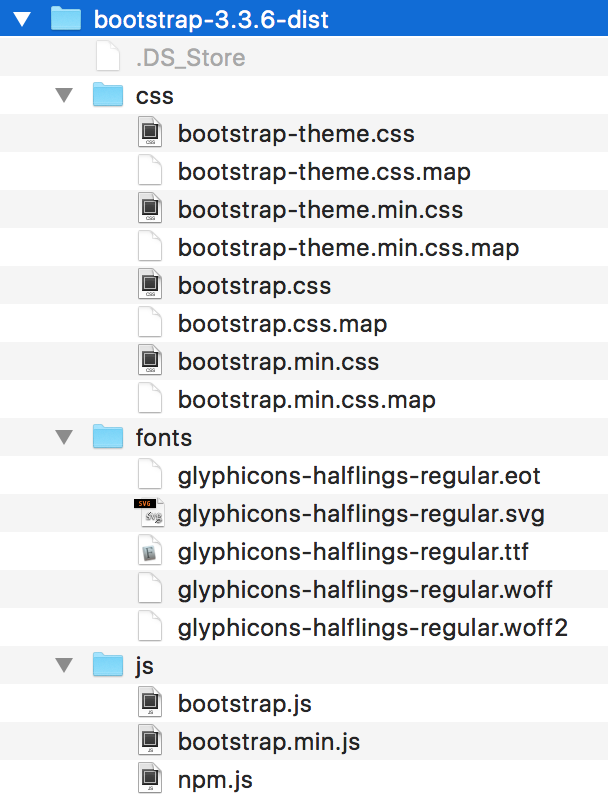
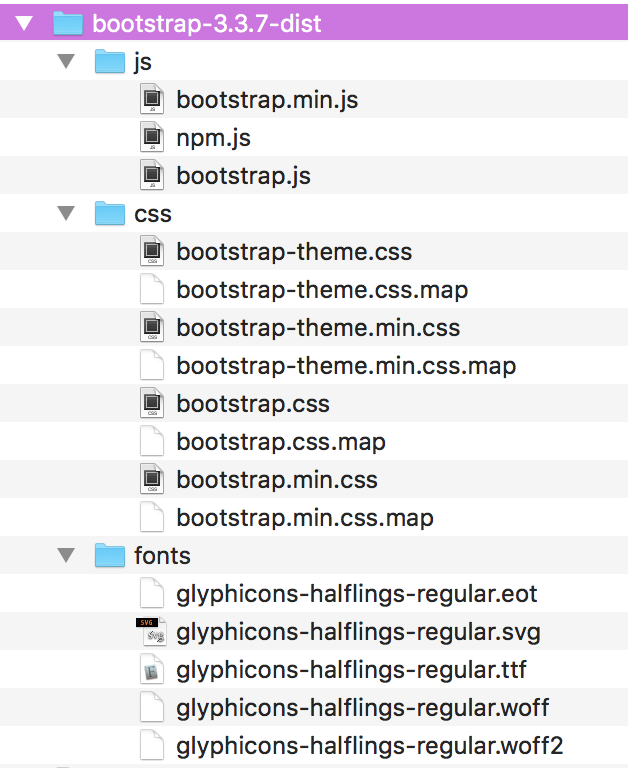
update for 2017-06-10 class

diff --git a/assets/styles/production/styles.min.css b/assets/styles/production/styles.min.css
@@ -1,2 +1,2 @@
-#gdi .left_align,.mono_font{text-align:left}@font-face{font-family:Gotham;font-style:normal;font-weight:400;src:local("Gotham"),url(../../fonts/Gotham/Gotham-Medium.otf) format("opentype")}@font-face{font-family:Gotham-Book;font-style:normal;font-weight:400;src:local("Gotham-Book"),url(../../fonts/Gotham/Gotham-Book.otf) format("opentype")}@font-face{font-family:Gotham-Italic;font-style:italic;font-weight:400;src:local("Gotham-Italic"),url(../../fonts/Gotham/Gotham-MediumItalic.otf) format("opentype")}@font-face{font-family:Gotham-Bold;font-weight:700;src:local("Gotham-Bold"),url(../../fonts/Gotham/Gotham-Bold.otf) format("opentype")}.slides,body{color:#fff;font-family:Gotham-Bold,Helvetica,Arial,sans-serif}body{background:#1f4256}#gdi .uppercase{text-transform:uppercase}#gdi .top_margin{margin:1.5em 0 0}#gdi .small_top_margin{margin:.5em 0 0}#gdi .monaco_font{font-family:Monaco,sans-serif!important;text-align:left}#gdi ol,#gdi p,#gdi ul{font-size:28px;line-height:1.4;margin-top:20px;margin-bottom:20px}#gdi ul{text-align:center;margin-top:0;margin-left:0;padding-left:0;list-style:none}#gdi .big_p{font-size:40px;line-height:1.2}#gdi .huge_p{font-size:50px;line-height:1.2}#logistics,#twitter{color:#31648a;line-height:40px}#gdi li{margin:15px 0;line-height:1.2}#gdi b{font-family:Gotham-Bold}.mono_font{font-family:Monaco,sans-serif!important}#gdi .no_margin{margin:0!important}#gdi .width_50{width:50%}#gdi .indented{margin-left:2em!important}#gdi .block{display:block}#logistics{float:left;margin-left:660px;font-size:18pt}#twitter{float:right;margin-right:100px;font-size:16pt}#twitter img{display:inline-block;height:24px;margin-right:.5em;margin-bottom:-.25em}.reveal footer{position:fixed;bottom:0;left:0;z-index:10;height:40px;width:100%;padding:12px;background:url(../../images/pink-logo.png) no-repeat #eee;background-size:auto 60%;font-size:35%;text-align:right;border-top:2px solid #444;background-position-y:center;background-position-x:2%}.reveal footer .copyright{margin:15px 5px 0 100px;font-style:italic}.reveal footer .copyright a img{vertical-align:middle}#gdi .blue{color:#b3e3f1!important}#gdi .gold{color:#ecbe6d!important}#gdi .white{color:#fff!important}#gdi .pink{color:#f05b62!important}#gdi .navy{color:#1f4256!important}#gdi .meta{font-family:Gotham,Impact,sans-serif;font-size:26pt;line-height:27pt}#gdi .big_meta{font-size:28pt;line-height:38pt}#gdi .small_meta{font-size:23pt;line-height:27pt}#gdi .tiny_meta{font-size:16pt}#gdi h1,#gdi h2,#gdi h3,#gdi h4,#gdi h5{margin:15px 0;line-height:1;color:#Fff}#gdi h1{font-size:64pt}#gdi h2{font-size:54pt;margin-bottom:30px}#gdi h3{font-size:44pt}#gdi h4{font-size:34pt}#gdi h5{font-size:30pt}#gdi .spacer{display:block;height:1px;margin:24px 0 0 25px}#gdi .spacer.big_spacer{height:1px;margin:49px 0 0 50px}#gdi .spacer.small_spacer{height:1px;margin:9px 0 0 10px}#gdi .spacer.tiny_spacer{height:1px;margin:4px 0 0 5px}#gdi .divider{display:block;height:1px;width:12%;margin:5px auto 20px;border-bottom:1px dashed rgba(255,255,255,.3)}#gdi pre{background:#282828;font-family:Monaco,monospace;font-size:15px!important;color:#fff;width:100%;padding:0;margin:0;border:none;box-shadow:none}#gdi pre code{text-shadow:none;padding:0;max-height:none;display:block;margin-top:-22px;margin-bottom:-44px}#gdi .no_margin_pre pre{margin:0 auto;margin-top:0!important}#gdi .skinny_pre pre{width:70%!important;margin:1em auto 0}#gdi .kind_of_skinny_pre pre{width:80%!important}#gdi .extra_skinny_pre pre{width:50%!important}#gdi .big_pre_font pre{font-size:24pt!important}#gdi .tiny_font_pre pre{font-size:11pt!important}#gdi a{color:#fff;text-decoration:underline}#gdi table{width:70%;margin:0 auto;border-collapse:separate;border-spacing:0;background-color:#fff;font-size:18pt;color:#1e3e52;text-align:left;border:2px solid #b3e3f1}#gdi table.wide_table{width:85%}#gdi table .header_row td{padding:20px;background-color:#b3e3f1;color:#122632;text-transform:uppercase}.img_wrapper{padding:2em!important;background-color:#fff;border:6px solid #b3e3f1!important;border-radius:10px}#gdi table td{vertical-align:middle;padding:10px;border-bottom:1px solid #b3e3f1}#gdi table.small_font_table td{padding:2px;font-size:14pt}#gdi tr:hover{background-color:rgba(131,166,176,.28)}#gdi .col{float:left;width:50%}#gdi .col.quarter_col{width:47%}#gdi .col.three_quarters_col{width:53%}#gdi .col.with_border{width:45%;margin:1%;padding:1%;line-height:1.85em;border:1px solid #fff}#js_graphic,#server_graphic{height:300px;width:40%;margin:.5em}#gdi .img_blue_border{border:5px solid #b3e3f1;border-radius:10px}#js_graphic{float:left;background:url(../img/js.png) center no-repeat #fff;background-size:70%;border:5px solid #b3e3f1;border-radius:10px}#server_graphic{float:right;background:url(../img/hosting.png) center no-repeat #fff;background-size:contain;border:5px solid #b3e3f1;border-radius:10px}#gallery{width:96%;margin-bottom:1em;padding:2%;border-bottom:2px solid #bbb}#gallery .thumbnail{float:left;overflow:hidden;height:40px;width:40px;margin:.5em;opacity:.6;border:2px solid #bbb;border-radius:2px;transition:.1s .1s}#gallery .thumbnail:hover{cursor:pointer;opacity:1;border-color:#EF5B6A!important}#gallery #selected_thumb{opacity:1;border-color:#4FA2CC}#gallery .thumbnail img{height:100%}#gallery:after{content:'';display:block;clear:both}#large_image img{overflow:hidden;width:60%;margin:0 auto;border:1px solid #eee;box-shadow:0 0 5px #000}.js_fiddle_link{position:absolute;top:-3em;right:-3em}.js_fiddle_link a{display:block;padding-left:25px;background-image:url(../img/js_logo.png);background-repeat:no-repeat;background-size:contain;font-family:Roboto;font-size:14pt;font-weight:400;color:#fff!important;text-decoration:none;text-transform:lowercase}.js_fiddle_link a:hover{color:#F0DB4F!important}.inline_code{padding:2px 8px!important;background-color:#aacadc;font-family:Monaco!important;font-size:78%!important;color:#1f4256}hr{height:6px;width:25%;margin:28px auto 30px;background:0 0;border:0;border-bottom:1px dashed #2b5e79}.highlight_single_line_text{position:absolute;margin-top:-25px}.highlighting_code_slide h4{font-size:28pt!important;line-height:40pt}#ddr,#ddr2{width:60%;margin:0 auto;padding:130px 0;background-color:#fff;font-size:100pt;border:12px solid #aacadc;border-radius:5px}#ddr button,#ddr2 button{width:120px;padding-bottom:20px;background-color:#2a4758;font-size:60pt;color:#fff;border:0;outline:0;transition:all .1s}#result,#result2,.task_quote{width:100%;text-align:center}#ddr button:hover,#ddr2 button:hover{cursor:pointer;background-color:#d9b06f}#ddr button:active,#ddr2 button:active{transform:scale(.95)}#result,#result2{transition:all .2s}#result.changing,#result2.changing{color:#f95a61;transform:scale(1.2)}.task_quote{position:fixed;display:block;top:0;padding:20px!important;background-color:#17303f}#gdi .img_50{max-width:45%;margin:2%}#gdi .img_20{margin:2%;max-width:18%}#gdi .controls{position:fixed;width:55px;height:55px;z-index:30;right:5px;bottom:5px;-webkit-user-select:none}#gdi .controls div{border:6px solid transparent}#gdi .controls div.navigate-left{top:21px;border-right-width:11px;border-right-color:#d9b06f}#gdi .controls div.navigate-right{left:37px;top:21px;border-left-width:11px;border-left-color:#d9b06f}#gdi .controls div.navigate-up{left:21px;border-bottom-width:11px;border-bottom-color:#d9b06f}#gdi .controls div.navigate-down{left:21px;top:37px;border-top-width:11px;border-top-color:#d9b06f}.slide-number{right:25px!important;bottom:75px!important;font-size:24pt!important;color:#fff!important}
+@font-face{font-family:Gotham;font-style:normal;font-weight:400;src:local("Gotham"),url(../../fonts/Gotham/Gotham-Medium.otf) format("opentype")}@font-face{font-family:Gotham-Book;font-style:normal;font-weight:400;src:local("Gotham-Book"),url(../../fonts/Gotham/Gotham-Book.otf) format("opentype")}@font-face{font-family:Gotham-Italic;font-style:italic;font-weight:400;src:local("Gotham-Italic"),url(../../fonts/Gotham/Gotham-MediumItalic.otf) format("opentype")}@font-face{font-family:Gotham-Bold;font-weight:700;src:local("Gotham-Bold"),url(../../fonts/Gotham/Gotham-Bold.otf) format("opentype")}.slides,body{color:#fff;font-family:Gotham-Bold,Helvetica,Arial,sans-serif}body{background:#1f4256}#gdi .uppercase{text-transform:uppercase}#gdi .top_margin{margin:1.5em 0 0 0}#gdi .small_top_margin{margin:.5em 0 0 0}#gdi .monaco_font{font-family:Monaco,sans-serif!important;text-align:left}#gdi ol,#gdi p,#gdi ul{font-size:28px;line-height:1.4;margin-top:20px;margin-bottom:20px}#gdi ul{text-align:center;margin-top:0;margin-left:0;padding-left:0;list-style:none}#gdi .big_p{font-size:40px;line-height:1.2}#gdi .huge_p{font-size:50px;line-height:1.2}#gdi li{margin:15px 0;line-height:1.2}#gdi b{font-family:Gotham-Bold}.mono_font{font-family:Monaco,sans-serif!important;text-align:left}#gdi .no_margin{margin:0!important}#gdi .width_50{width:50%}#gdi .left_align{text-align:left}#gdi .indented{margin-left:2em!important}#gdi .block{display:block}#logistics{float:left;margin-left:660px;font-size:18pt;color:#31648a;line-height:40px}#twitter{float:right;margin-right:100px;font-size:16pt;color:#31648a;line-height:40px}#twitter img{display:inline-block;height:24px;margin-right:.5em;margin-bottom:-.25em}.reveal footer{position:fixed;bottom:0;left:0;z-index:10;height:40px;width:100%;padding:12px;background:#eee url(../../images/pink-logo.png) no-repeat;background-size:auto 60%;font-size:35%;text-align:right;border-top:2px solid #444;background-position-y:center;background-position-x:2%}.reveal footer .copyright{margin:15px 5px 0 100px;font-style:italic}.reveal footer .copyright a img{vertical-align:middle}#gdi .blue{color:#b3e3f1!important}#gdi .gold{color:#ecbe6d!important}#gdi .white{color:#fff!important}#gdi .pink{color:#f05b62!important}#gdi .navy{color:#1f4256!important}#gdi .meta{font-family:Gotham,Impact,sans-serif;font-size:26pt;line-height:27pt}#gdi .big_meta{font-size:28pt;line-height:38pt}#gdi .small_meta{font-size:23pt;line-height:27pt}#gdi .tiny_meta{font-size:16pt}#gdi h1,#gdi h2,#gdi h3,#gdi h4,#gdi h5,#gdi h6{margin:15px 0;font-size:50pt;line-height:1;color:#fff;-webkit-hyphens:none;-ms-hyphens:none;hyphens:none}#gdi h1{font-size:64pt}#gdi h2{font-size:54pt;margin-bottom:30px}#gdi h3{font-size:44pt}#gdi h4{font-size:34pt}#gdi h5{font-size:30pt}#gdi .spacer{display:block;height:1px;margin:24px 0 0 25px}#gdi .spacer.big_spacer{height:1px;margin:49px 0 0 50px}#gdi .spacer.small_spacer{height:1px;margin:9px 0 0 10px}#gdi .spacer.tiny_spacer{height:1px;margin:4px 0 0 5px}#gdi .divider{display:block;height:1px;width:12%;margin:0 auto;margin-top:5px;margin-bottom:20px;border-bottom:1px dashed rgba(255,255,255,.3)}#gdi pre{background:#282828;font-family:Monaco,monospace;font-size:15px!important;color:#fff;width:100%;padding:0;margin:0;border:none;box-shadow:none}#gdi pre code{text-shadow:none;padding:0;max-height:none;display:block;margin-top:-22px;margin-bottom:-44px}#gdi .no_margin_pre pre{margin:0 auto;margin-top:0!important}#gdi .skinny_pre pre{width:70%!important;margin:0 auto;margin-top:1em}#gdi .kind_of_skinny_pre pre{width:80%!important}#gdi .extra_skinny_pre pre{width:50%!important}#gdi .big_pre_font pre{font-size:24pt!important}#gdi .tiny_font_pre pre{font-size:11pt!important}#gdi a{color:#fff;text-decoration:underline}#gdi table{width:70%;margin:0 auto;border-collapse:separate;border-spacing:0;background-color:#fff;font-size:18pt;color:#1e3e52;text-align:left;border:2px solid #b3e3f1}#gdi table.wide_table{width:85%}#gdi table .header_row td{padding:20px;background-color:#b3e3f1;color:#122632;text-transform:uppercase}.img_wrapper{padding:2em!important;background-color:#fff;border:6px solid #b3e3f1!important;border-radius:10px}#gdi table td{vertical-align:middle;padding:10px;border-bottom:1px solid #b3e3f1}#gdi table.small_font_table td{padding:2px;font-size:14pt}#gdi tr:hover{background-color:rgba(131,166,176,.28)}#gdi .col{float:left;width:50%}#gdi .col.quarter_col{width:47%}#gdi .col.three_quarters_col{width:53%}#gdi .col.with_border{width:45%;margin:1%;padding:1%;line-height:1.85em;border:1px solid #fff}#gdi .img_blue_border{border:5px solid #b3e3f1;border-radius:10px}#js_graphic{float:left;height:300px;width:40%;margin:.5em;background:#fff url(../img/js.png) no-repeat center;background-size:70%;border:5px solid #b3e3f1;border-radius:10px}#server_graphic{float:right;height:300px;width:40%;margin:.5em;background:#fff url(../img/hosting.png) no-repeat center;background-size:contain;border:5px solid #b3e3f1;border-radius:10px}#gallery{width:96%;margin-bottom:1em;padding:2%;border-bottom:2px solid #bbb}#gallery .thumbnail{float:left;overflow:hidden;height:40px;width:40px;margin:.5em;opacity:.6;border:2px solid #bbb;border-radius:2px;transition:.1s .1s}#gallery .thumbnail:hover{cursor:pointer;opacity:1;border-color:#ef5b6a!important}#gallery #selected_thumb{opacity:1;border-color:#4fa2cc}#gallery .thumbnail img{height:100%}#gallery:after{content:'';display:block;clear:both}#large_image img{overflow:hidden;width:60%;margin:0 auto;border:1px solid #eee;box-shadow:0 0 5px #000}.js_fiddle_link{position:absolute;top:-3em;right:-3em}.js_fiddle_link a{display:block;padding-left:25px;background-image:url(../img/js_logo.png);background-repeat:no-repeat;background-size:contain;font-family:Roboto;font-size:14pt;font-weight:400;color:#fff!important;text-decoration:none;text-transform:lowercase}.js_fiddle_link a:hover{color:#f0db4f!important}.inline_code{padding:2px 8px!important;background-color:#aacadc;font-family:Monaco!important;font-size:78%!important;color:#1f4256}hr{height:6px;width:25%;margin:0 auto;margin-top:28px;margin-bottom:30px;background:0 0;border:0;border-bottom:1px dashed #2b5e79}.highlight_single_line_text{position:absolute;margin-top:-25px}.highlighting_code_slide h4{font-size:28pt!important;line-height:40pt}#ddr,#ddr2{width:60%;margin:0 auto;padding:130px 0;background-color:#fff;font-size:100pt;border:12px solid #aacadc;border-radius:5px}#ddr button,#ddr2 button{width:120px;padding-bottom:20px;background-color:#2a4758;font-size:60pt;color:#fff;border:0;outline:0;transition:all .1s}#ddr button:hover,#ddr2 button:hover{cursor:pointer;background-color:#d9b06f}#ddr button:active,#ddr2 button:active{transform:scale(.95)}#result,#result2{width:100%;text-align:center;transition:all .2s}#result.changing,#result2.changing{color:#f95a61;transform:scale(1.2)}.task_quote{position:fixed;display:block;top:0;width:100%;padding:20px!important;background-color:#17303f;text-align:center}#gdi .img_50{max-width:45%;margin:2%}#gdi .img_20{max-width:45%;margin:2%;max-width:18%}#gdi .controls{position:fixed;width:55px;height:55px;z-index:30;right:5px;bottom:5px;-webkit-user-select:none}#gdi .controls div{border:6px solid transparent}#gdi .controls div.navigate-left{top:21px;border-right-width:11px;border-right-color:#d9b06f}#gdi .controls div.navigate-right{left:37px;top:21px;border-left-width:11px;border-left-color:#d9b06f}#gdi .controls div.navigate-up{left:21px;border-bottom-width:11px;border-bottom-color:#d9b06f}#gdi .controls div.navigate-down{left:21px;top:37px;border-top-width:11px;border-top-color:#d9b06f}.slide-number{right:25px!important;bottom:75px!important;font-size:24pt!important;color:#fff!important}
 /*# sourceMappingURL=maps/styles.min.css.map */

diff --git a/index.html b/index.html
@@ -24,7 +24,7 @@
         
       <section>
         <h1 class="uppercase no_margin" style="font-size: 60px;">Building With Bootstrap</h1>
-        <div class="meta blue uppercase small_meta">2016-07-30 &#8729; GDI MPLS &#8729; Clare O&rsquo;Neill</div>
+        <div class="meta blue uppercase small_meta">2017-06-10 &#8729; GDI MPLS &#8729; Clare O&rsquo;Neill</div>
         <img src="assets/images/gdi_logo_badge.png" class="top_margin width_50" style="width:25%;">
 
         <div class="spacer"></div>
@@ -47,7 +47,7 @@
             <li>We are here for you!</li>
             <li>Every question is important</li>
             <li>Help each other</li>
-            <li>Have fun</li>
+            <li>Have fun!</li>
           </ul>
         </div>
       </section><!-- /welcome -->
@@ -180,14 +180,13 @@
 
       <section>
         <h3 class="blue">JavaScript</h3>
-        <p class="fragment">jQuery-based JavaScript plugins for interactive elements such as tooltips, modal windows, and carousels</p>
+        <p class="fragment">jQuery-powered JavaScript plugins for interactive elements such as tooltips, modal windows, and carousels</p>
         <span class="fragment meta tiny_meta">If we have time, we’ll be using the Scrollspy plugin</span>
       </section><!-- /javascript -->
 
       <section>
         <h2 class="gold">Let&rsquo;s talk about the Bootstrap grid system</h2>
         <p class="fragment big_p">Bootstrap&rsquo;s grid system is its most powerful and widely used feature.</p>
-        <span class="fragment meta tiny_meta">That&rsquo;s not a fact I can prove, but I&rsquo;m like 99.99999% sure its true!</span>
       </section><!-- /the grid system -->
 
       <section>
@@ -288,7 +287,7 @@
       </section><!-- /2 col-xs-6 -->
 
       <section>
-        <p>If you want to have four 25% columns on a desktop, and would like them to break to 100% on a tablet, you would use <span class="inline_code">.col-md-3</span> nested in a .row.</p>
+        <p>If you want to have four 25% columns on a desktop screen size, and would like them to break to 100% on a tablet, you would use <span class="inline_code">.col-md-3</span> nested in a .row.</p>
         <img src="assets/images/4-col-md-3.png" alt="4 .col-md-3 elements" style="width: 750px;">
       </section><!-- /4 col-md-3 -->
 
@@ -326,7 +325,7 @@
       <section>
         <p>Open <span class="inline_code">slide-demo/demo.html</span> in Sublime Text.</p>
         <hr>
-        <p class="fragment">Find <span class="inline_code">bootstrap.css</span> inside the <span class="inline_code">bootstrap-3.3.6-dist/</span> folder we downloaded, and add it to the <span class="inline_code">slide-demo/css/</span> folder.</p>
+        <p class="fragment">Find <span class="inline_code">bootstrap.css</span> inside the <span class="inline_code">bootstrap-3.3.7-dist/</span> folder we downloaded, and add it to the <span class="inline_code">slide-demo/css/</span> folder.</p>
         <hr>
         <p class="fragment">Add it to the <span class="inline_code">head</span> of <span class="inline_ccode">index.html</span>.<br><span class="span meta tiny_meta">Remember to use the relative path!</span></p>
         <div class="fragment">
@@ -447,15 +446,15 @@
       <section>
         <p>Open <span class="inline_code">resume/index.html</span> in Sublime Text.</p>
         <hr>
-        <p class="fragment">Find <span class="inline_code">bootstrap.css</span> inside the <span class="inline_code">bootstrap-3.3.6-dist/</span> folder we downloaded, and add it to the <span class="inline_code">resume/css/</span> folder.</p>
+        <p class="fragment">Find <span class="inline_code">bootstrap.css</span> inside the <span class="inline_code">bootstrap-3.3.7-dist/</span> folder we downloaded, and add it to the <span class="inline_code">resume/css/</span> folder.</p>
         <hr>
-        <p class="fragment">Find the <span class="inline_code">fonts/</span> directory inside the <span class="inline_code">bootstrap-3.3.6-dist/</span> folder we downloaded, and add it to the <span class="inline_code">resume/</span> folder.</p>
+        <p class="fragment">Find the <span class="inline_code">fonts/</span> directory inside the <span class="inline_code">bootstrap-3.3.7-dist/</span> folder we downloaded, and add it to the <span class="inline_code">resume/</span> folder.</p>
       </section><!-- add bootstrap css -->
 
       <section>
         <p>In order for our navbar to work on mobile, we&rsquo;ll need Bootstrap&rsquo;s JavaScript as well.</p>
         <hr>
-        <p class="fragment">Find <span class="inline_code">bootstrap.js</span> inside the <span class="inline_code">bootstrap-3.3.6-dist/</span> folder we downloaded, and add it to the <span class="inline_code">resume/js/</span> folder.</p>
+        <p class="fragment">Find <span class="inline_code">bootstrap.js</span> inside the <span class="inline_code">bootstrap-3.3.7-dist/</span> folder we downloaded, and add it to the <span class="inline_code">resume/js/</span> folder.</p>
       </section>
 
       <section>
@@ -529,6 +528,7 @@
             &lt;/button&gt;
           </code>
         </pre>
+        <span class="span meta tiny_meta fragment"><br>Make sure to change the button&rsquo;s <span class="inline_code">data-target</span> attribute to <span class="inline_code">#navbar</span>.</span>
       </section><!-- /nav continued -->
 
       <section>
@@ -543,6 +543,7 @@
             &lt;/div&gt;
           </code>
         </pre>
+        <span class="span meta tiny_meta fragment"><br>Make sure to change the div&rsquo;s <span class="inline_code">id</span> to be <span class="inline_code">navbar</span>.</span>
       </section><!-- /nav continued -->
 
       <section>
@@ -567,7 +568,7 @@
         <h2 class="gold">Jumbotron</h2>
         <p class="fragment">Add a jumbotron element after the <span class="inline_code">&lt;nav&gt;</span></p>
         <hr>
-        <p class="fragment">Inside the jumbotron, add a <span class="inline_code">h1</span> with your name, and a paragraph element with your job title.</p>
+        <p class="fragment">Inside the jumbotron, add an <span class="inline_code">h1</span> with your name, and a paragraph element with your job title.</p>
         <hr>
         <p class="fragment">Make your job title stand out with a <span class="inline_code">.lead</span> class.</p>
       </section><!-- /jumbotron -->
@@ -665,7 +666,8 @@
 
       <section>
         <h2 class="gold">About</h2>
-        <p class="fragment">In the smaller column, add your email and phone number with the corresponding glyphicon for each (refer to the documentation).</p>
+        <p class="fragment">In the smaller column, create an unordered list element that is styled to have <i>no bullets</i>.<br><span class="span meta tiny_meta">Browse the docs to find a class that will do this for you.</span></p>
+        <p class="fragment">Add your email and phone number as list items. Start each list item with the corresponding glyphicon.<br><span class="span meta tiny_meta">Refer to the documentation, again! (Are you seeing a pattern here?)</span></p>
         <hr>
         <p class="fragment"><i>Extra credit:</i> Add your address with a matching glyphicon as well.</p>
       </section>
@@ -719,11 +721,11 @@
         <h2 class="gold">Experience</h2>
         <p class="fragment">Add a new <span class="inline_code">.row</span> inside the content column.</p>
         <hr>
-        <p class="fragment">Create 2 columns, one that spans 1/4 of the container and and one that spans 3/4 of the container. Both of them should break down to 100% on medium devices.</p>
+        <p class="fragment">Create 2 columns, one that spans 1/4 of the container and and one that spans 3/4 of the container. Both of them should break down to 100% on small devices.</p>
         <hr>
-        <p class="fragment">In the larger column add a company name inside a <span class="inline_code">h3</span>, followed by your job title inside a <span class="inline_code">h4</span>, followed by a paragraph with a brief description of the job.</p>
+        <p class="fragment">In the larger column add a company name inside an <span class="inline_code">h3</span>, followed by your job title inside an <span class="inline_code">h4</span>, followed by a paragraph with a brief description of the job.</p>
         <hr>
-        <p class="fragment">Inside the smaller column add a <span class="inline_code">h5</span> with the date range of your employment with the company.</p>
+        <p class="fragment">Inside the smaller column add an <span class="inline_code">h5</span> with the date range of your employment with the company.</p>
       </section>
 
       <section>
@@ -752,7 +754,7 @@
 
       <section>
         <h2 class="gold">Portfolio</h2>
-        <p class="fragment">Create three columns that each take up 1/3 of the container width. They should break down to 100% on small screens.</p>
+        <p class="fragment">Inside the content column, create three columns that each take up 1/3 of the container width. They should break down to 100% on small screens.</p>
         <hr>
         <p class="fragment">Inside each column add a <span class="inline_code">.thumbnail</span> div with a <span class="inline_code">.text-center</span> class.</p>
         <hr>
@@ -767,7 +769,7 @@
               &lt;div class="col-sm-4"&gt;
                 &lt;div class="thumbnail text-center"&gt;
                   &lt;img src="image.jpg" alt="HTML &amp; CSS" class="img-responsive"&gt;
-                  &lt;h4&gt;Project A&lt;/h4&gt;
+                  &lt;h4&gt;Project&lt;/h4&gt;
                   &lt;h5&gt;HTML &amp; CSS&lt;/h5&gt;
                 &lt;/div&gt;
               &lt;/div&gt;
@@ -782,7 +784,7 @@
         <h2 class="gold">Footer</h2>
         <p class="fragment">Add a footer with a nested <span class="inline_code">.container</span></p>
         <hr>
-        <p class="fragment">Add a copyright (<span class="inline_code">&amp;copy;</span>) inside a <span class="inline_code">&lt;small&gt;</span> element.</p>
+        <p class="fragment">Add a copyright symbol (<span class="inline_code">&amp;copy;</span>) inside a <span class="inline_code">&lt;small&gt;</span> element.</p>
         <hr>
         <p class="fragment">Center the copyright.</p>
       </section>
@@ -793,7 +795,7 @@
           <code class="language-markup">
             &lt;footer&gt;
                &lt;div class="container text-center"&gt;
-                 &lt;small&gt;&amp;copy; 2016 Your Name&lt;/small&gt;
+                 &lt;small&gt;&amp;copy; 2017 Your Name&lt;/small&gt;
                &lt;/div&gt;
              &lt;/footer&gt;
           </code>
@@ -831,12 +833,12 @@
         <hr>
         <p class="fragment">Find it in <span class="inline_code">resume-source-code/css/styles.css</span>. Copy and paste the file into the <span class="inline_code">resume/css/</span> folder, then add it to the <span class="inline_code">head</span> of your resume site.</p>
         <hr>
-        <p class="fragment">Refresh your browser to see how a few extra lines of CSS can change the site.</p>
+        <p class="fragment">Refresh your browser to see how just a few extra lines of CSS can totally transform your site.</p>
       </section><!-- /finishing up -->
 
       <section>
         <h2 class="gold">BONUS: Adding some JavaScript</h2>
-        <p class="fragment">The JavaScript plugin we&rsquo;re going to use is called Scrollspy, but all Bootstrap&rsquo;s JavaScript comes packaged in one file together.</p>
+        <p class="fragment">The JavaScript plugin we&rsquo;re going to use is called Scrollspy, but all of Bootstrap&rsquo;s JavaScript comes packaged in one file together.</p>
         <p class="fragment">Scrollspy works by targetting the links inside an element we select.</p>
         <p class="fragment">The easiest and fastest way to do that is to use an element&rsquo;s ID.</p>
       </section><!-- /javascript -->

diff --git a/assets/styles/development/css/styles.css b/assets/styles/development/css/styles.css
@@ -162,11 +162,14 @@ body {
 #gdi .tiny_meta {
   font-size: 16pt; }
 
-#gdi h1, #gdi h3, #gdi h4, #gdi h5, #gdi h2 {
+#gdi h1, #gdi h2, #gdi h3, #gdi h4, #gdi h5, #gdi h6 {
   margin: 15px 0;
   font-size: 50pt;
   line-height: 1;
-  color: #Fff; }
+  color: #Fff;
+  -webkit-hyphens: none;
+  -ms-hyphens: none;
+  hyphens: none; }
 
 #gdi h1 {
   font-size: 64pt; }

diff --git a/assets/styles/development/scss/styles.scss b/assets/styles/development/scss/styles.scss
@@ -189,11 +189,12 @@ body {
   .tiny_meta {
     font-size: 16pt;
   }
-  h1, h3, h4, h5, h2 {
+  h1, h2, h3, h4, h5, h6 {
     margin: 15px 0;
     font-size: 50pt;
     line-height: 1;
     color: #Fff;
+    hyphens: none;
   }
   h1 {
     font-size: 64pt;

diff --git a/README.md b/README.md
@@ -21,4 +21,16 @@ This hands-on workshop will cover:
 ## What to complete before class
 * Download Sublime Text 2 or 3 (http://www.sublimetext.com/)
 * Have a modern browser installed on your laptop (Chrome or Firefox)
-* Download the workshop files
+* Download the workshop files (https://github.com/gdiminneapolis/building-with-bootstrap-project-files/archive/master.zip)
+
+## To edit the presentation files
+Install the node modules: `npm install`
+
+Clone the Reveal.js submodule:
+  1. `cd reveal.js`
+  1. `git submodule init`
+  1. `git submodule update`
+  
+Start the server: `gulp serve`
+
+Run the build: `gulp watch`
